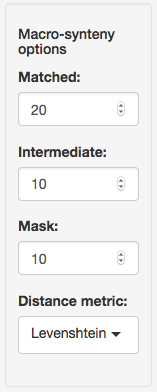
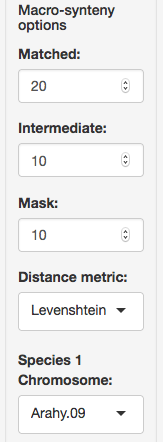
Filter macro-synteny chart by species 1 chromosome

diff --git a/README.md b/README.md
@@ -16,7 +16,7 @@ Each ZZBrowse view now supports simultaneous visualization of GWAS data for two 
 
 ### Macrosynteny blocks
 
-The Whole Genome and Chromosome views now plot macrosynteny blocks v. a syntenic distance metric (Levenshtein or Jaccard), for the purpose of quickly identifying likely related regions of the two genomes to explore further, using the Genomic Linkage feature described below. The other macrosynteny options (at the bottom of the sidebar) are described [here](https://github.com/legumeinfo/ZZBrowse/wiki/Macro-Synteny-options).
+The Whole Genome and Chromosome views now plot macrosynteny blocks v. a syntenic distance metric (Levenshtein or Jaccard), for the purpose of quickly identifying likely related regions of the two genomes to explore further, using the Genomic Linkage feature described below. The other macrosynteny options (at the bottom of the sidebar) are described [here](https://github.com/legumeinfo/ZZBrowse/wiki/Macrosynteny-options).
 
 ![macrosynteny](img/macrosynteny.png)
 
